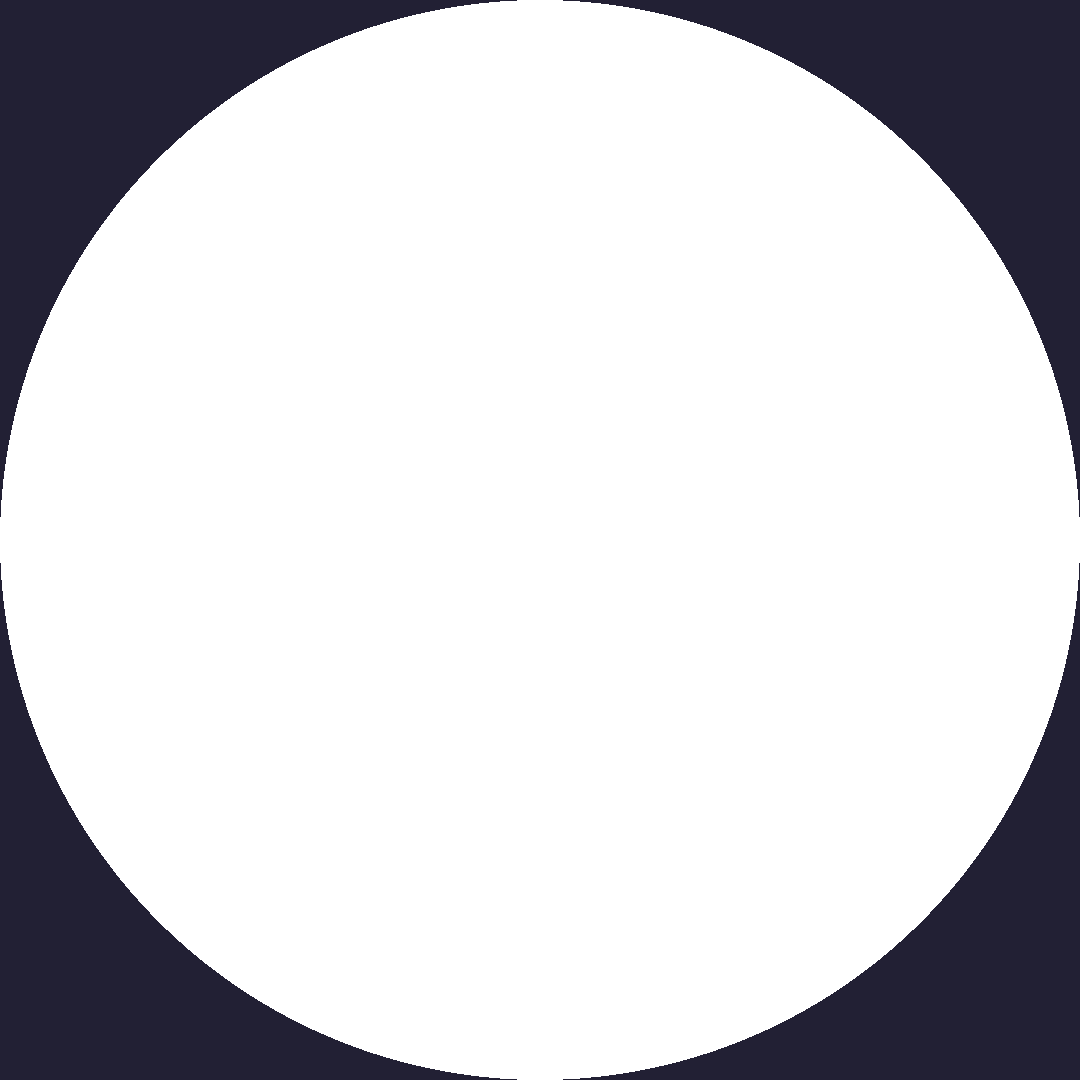
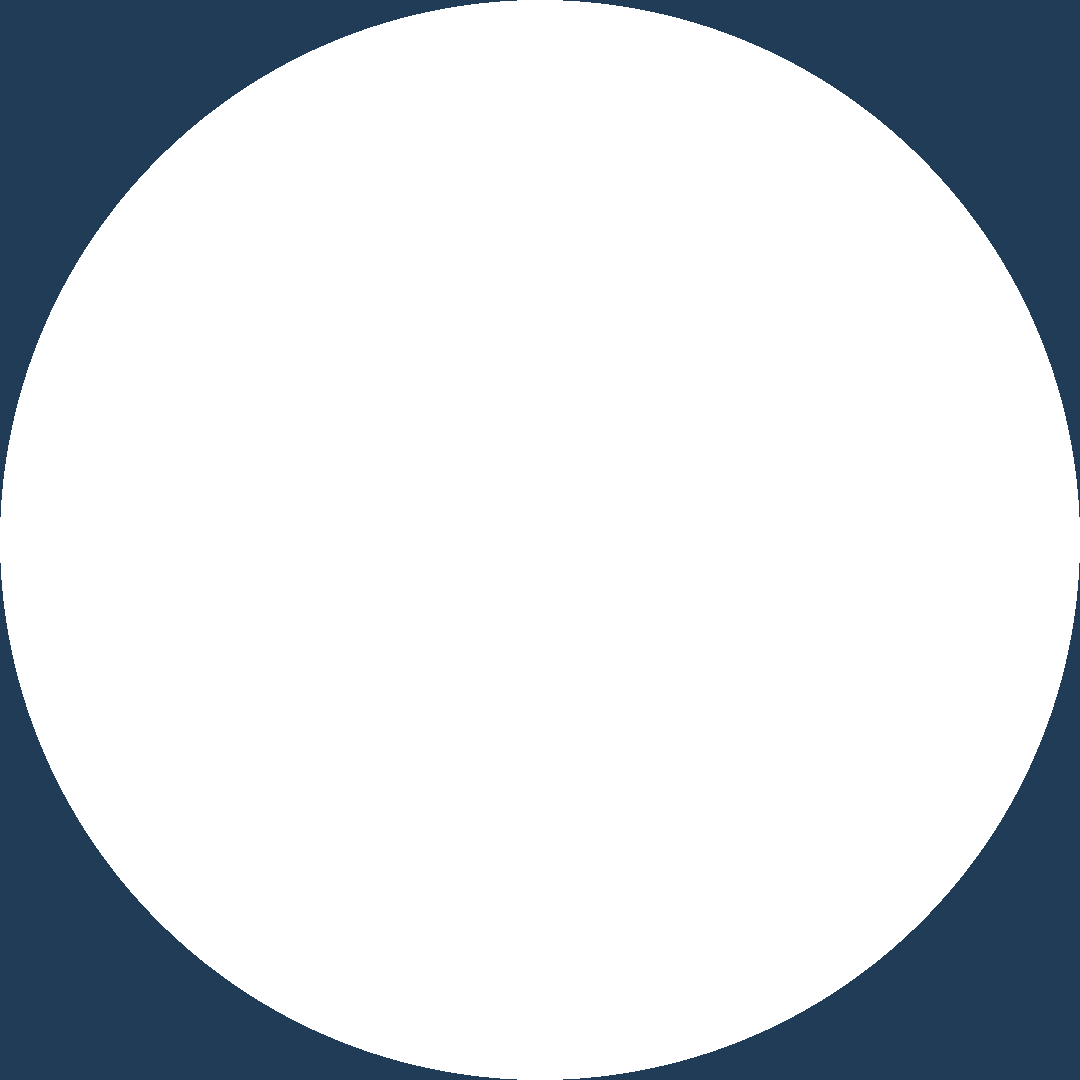
sun!!!

diff --git a/main.cpp b/main.cpp
@@ -82,7 +82,8 @@ int main()
     initStars();
 
     window.setFramerateLimit(60);
-    Player p(screenWidth/2,screenWidth/2);
+    
+    Player p(screenWidth/2,100);
     Collider c1(0,0,10,32);
     Collider c2(0,0,10,10);
     cout<<c2.checkCollition(c1);
@@ -117,8 +118,16 @@ int main()
 
         if (sf::Mouse::isButtonPressed(sf::Mouse::Button::Left))
         {
-            p.fireLazer();
+            if(p.fireLazer())
+            {
+                sf::SoundBuffer zap;
+                zap.loadFromFile("laserShoot.wav");
+                sf::Sound sound(zap);
+                sound.play();
+
+            }
         }
+
         for(int i = 0; i < 360;i++){
             if(colliders[i].collider.checkCollition(p.collider) and tpCooldown < 0){
                 p.setPosition(colliders[colliders[i].getOpposite()].x,colliders[colliders[i].getOpposite()].y);
@@ -127,19 +136,29 @@ int main()
             }
 
         }
-        sun.update(p);
+        if(sun.checkCollition(p.x,p.y)){
+            sf::Vector2f nv =sf::Vector2f(sun.x,sun.y) - sf::Vector2f(p.x,p.y);
+            nv.x/=2000;
+            nv.y/=2000;
+            p.addVelocity(nv);
+        }
 
         window.clear(); 
+
+        sf::RectangleShape r(sf::Vector2f(screenWidth,screenWidth));
+        r.setFillColor(sf::Color(13,43,69));
+        window.draw(r);
         sf::Texture t;
         t.loadFromFile("outline.png");
         sf::Sprite outline(t);
         drawStars();
         window.draw(sun.debugDraw(p));
+        
 
         p.updatePosition();
         window.draw(p.getSprite());
         window.draw(outline);
-
+        window.draw(sun.getSprite());
 
 
 

diff --git a/Sun.cpp b/Sun.cpp
@@ -12,12 +12,17 @@ class Sun
 {
 public:
     int x, y;
-    const int r = 1080/4;
+    sf::Texture texture;
+    const int r = 1080/8;
 
     Sun()
     {
         x = 1080 / 2;
         y = 1080 / 2;
+        texture.loadFromFile("sun.png");
+        sprite.setTexture(texture);
+        sprite.scale(2,2);
+        sprite.setOrigin(3,3);
     }        
     float getVectorLength(sf::Vector2f v){
         return(v.x * v.x + v.y * v.y );
@@ -30,6 +35,13 @@ public:
     {        
         return ((cx-x) * (cx-x)) + ((cy - y) * (cy - y)) < r*r;
     }
+
+    sf::Sprite getSprite(){
+        sprite.setPosition(x,y);
+        
+        return sprite;
+    }
+
     sf::CircleShape debugDraw(Player p){
         sf::CircleShape c;
         c.setRadius(r);
@@ -38,12 +50,7 @@ public:
     
         return c;
     }
-    void update(Player p){
-        if(checkCollition(p.x,p.y)){
-            sf::Vector2f pvec = getNormalizedVector(sf::Vector2f(400, 400));
-            pvec.x*=100000;
-            pvec.y*=100000;
-            p.forwardsImpulse(1);
-        }
-    }
+    private:
+        
+        sf::Sprite sprite;
 };

diff --git a/Player.cpp b/Player.cpp
@@ -16,7 +16,7 @@ class Player
     public:
         sf::Texture texture;
         Collider collider;
-        const int MAXSPEED = 10;
+        const int MAXSPEED = 12;
 
         float rotation;
         
@@ -94,11 +94,8 @@ class Player
             sprite.setPosition(x,y);
             return sprite;
         }
-        void fireLazer(){
-            sf::SoundBuffer zap;
-            zap.loadFromFile("laserShoot.wav");
-            sf::Sound sound(zap);
-            sound.play();
+        bool fireLazer(){
+            return true;
         }
     private:
         
